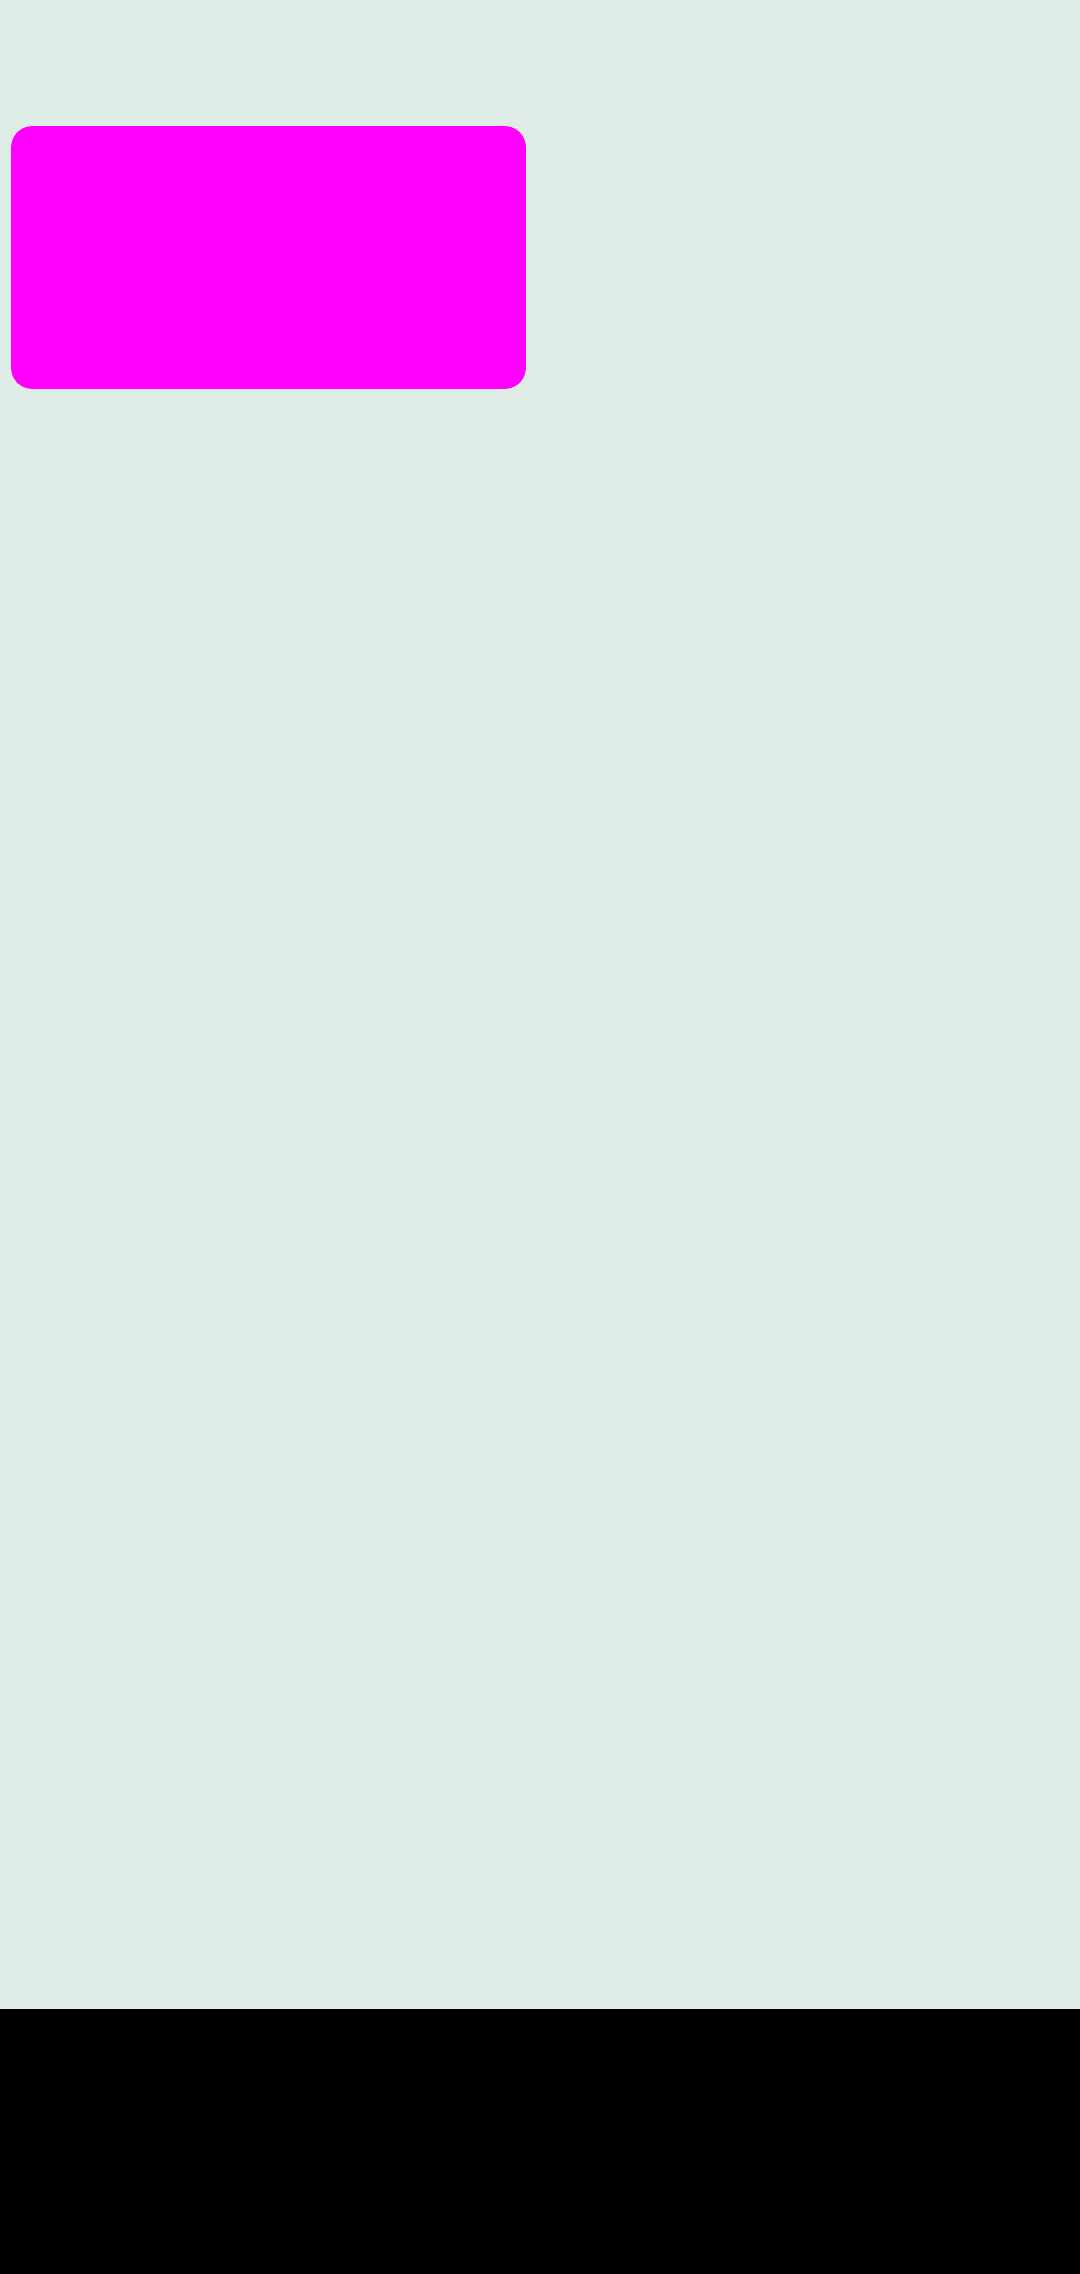
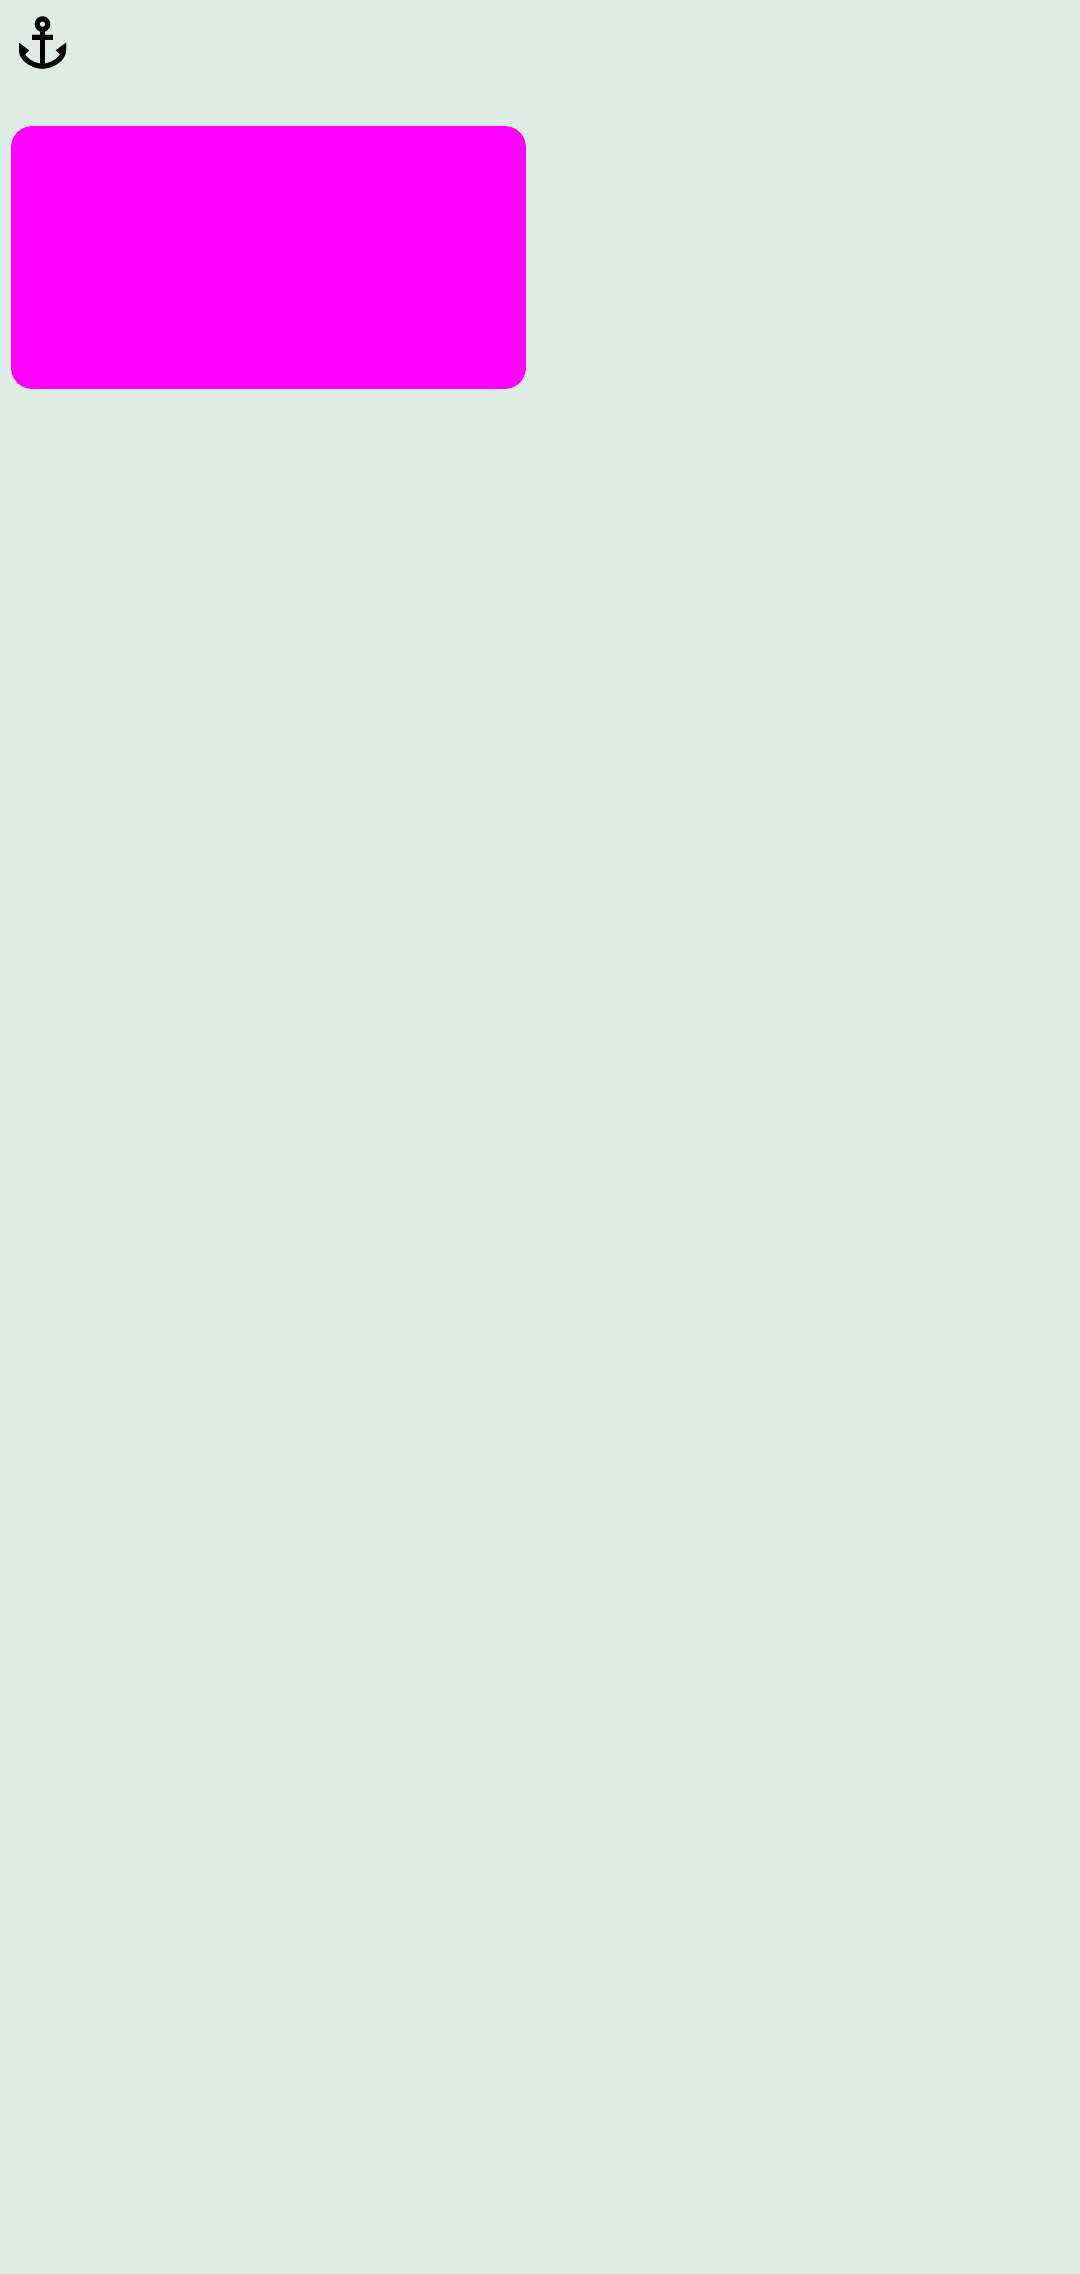
Solve letterboxing of screenshot tests by setting a targetSdk

Changed region(s): [[0.0, 0.8742, 1.0, 1.0], [0.0306, 0.0, 0.0611, 0.0312]]

diff --git a/cascade-compose/src/androidTest/kotlin/me/saket/cascade/CascadePopupAlignmentTest.kt b/cascade-compose/src/androidTest/kotlin/me/saket/cascade/CascadePopupAlignmentTest.kt
@@ -13,10 +13,12 @@ import androidx.compose.foundation.layout.padding
 import androidx.compose.foundation.layout.requiredHeight
 import androidx.compose.foundation.layout.requiredSize
 import androidx.compose.foundation.layout.size
-import androidx.compose.foundation.layout.wrapContentSize
 import androidx.compose.foundation.shape.RoundedCornerShape
+import androidx.compose.material.icons.Icons
+import androidx.compose.material.icons.filled.Anchor
 import androidx.compose.material3.DropdownMenu
 import androidx.compose.material3.DropdownMenuItem
+import androidx.compose.material3.Icon
 import androidx.compose.material3.MaterialTheme
 import androidx.compose.material3.Shapes
 import androidx.compose.material3.Text
@@ -117,10 +119,8 @@ internal class CascadePopupAlignmentTest {
     @TestParameter useNoLimitsFlag: Boolean,
   ) {
     if (useNoLimitsFlag) {
-      composeTestRule.activity.run {
-        runOnUiThread {
-          window.addFlags(WindowManager.LayoutParams.FLAG_LAYOUT_NO_LIMITS)
-        }
+      composeTestRule.runOnUiThread {
+        composeTestRule.activity.window.addFlags(WindowManager.LayoutParams.FLAG_LAYOUT_NO_LIMITS)
       }
     }
     composeTestRule.setContent {
@@ -139,12 +139,13 @@ internal class CascadePopupAlignmentTest {
               Modifier
                 .fillMaxWidth()
                 .height(popupSize.height)
-                .background(Blue)
+                .background(Blue.copy(alpha = 0.5f))
             )
           }
 
           // Material's DropdownMenu is overlayed on top of cascade as
-          // a position guide. It should cover exact pixels of cascade.
+          // a position guide. It should cover exact pixels of cascade,
+          // except in some cases where cascade's positioning is better.
           DropdownMenu(
             modifier = Modifier
               .requiredSize(popupSize)
@@ -256,18 +257,22 @@ internal class CascadePopupAlignmentTest {
 
   @Composable
   private fun PopupScaffold(
-    align: Alignment = Alignment.TopStart,
+    anchorAlignment: Alignment = Alignment.TopStart,
     content: @Composable () -> Unit
   ) {
     Box(
       Modifier
         .fillMaxSize()
         .background(MaterialTheme.colorScheme.surfaceColorAtElevation(10.dp))
-        .wrapContentSize(align)
-        .padding(4.dp)
-        .size(1.dp)
     ) {
-      content()
+      Box(
+        Modifier
+          .align(anchorAlignment)
+          .padding(4.dp)
+      ) {
+        Icon(Icons.Filled.Anchor, contentDescription = null)
+        content()
+      }
     }
   }
 

diff --git a/cascade-compose/src/main/java/me/saket/cascade/internal/PositionPopupContent.kt b/cascade-compose/src/main/java/me/saket/cascade/internal/PositionPopupContent.kt
@@ -42,9 +42,6 @@ internal fun PositionPopupContent(
             contentPosition = positionProvider
               .calculatePosition(
                 anchorBounds = anchorBounds.boundsInRoot.roundToIntRect(),
-                // material3 uses View#getWindowVisibleDisplayFrame() for calculating window size,
-                // but that produces infinite-like values for windows that have FLAG_LAYOUT_NO_LIMITS set.
-                // material3 ends up looking okay because WindowManager sanitizes bad values.
                 windowSize = anchorBounds.root.layoutBoundsInWindow.intSize(),
                 layoutDirection = layoutDirection,
                 popupContentSize = coordinates.size,
